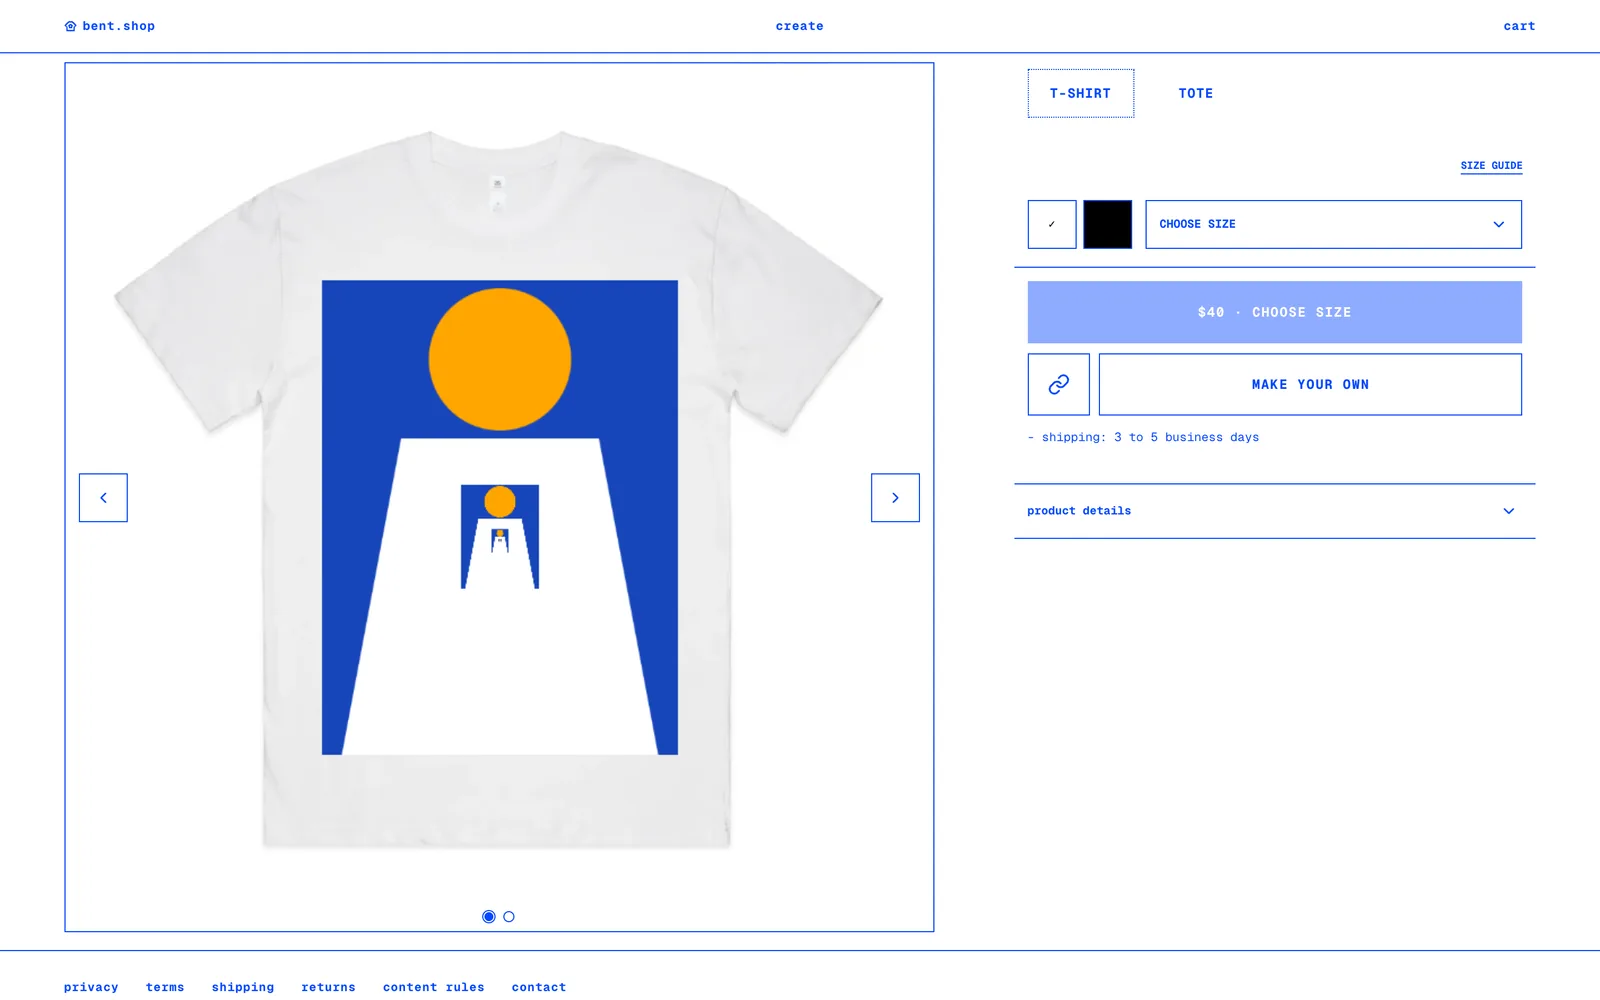
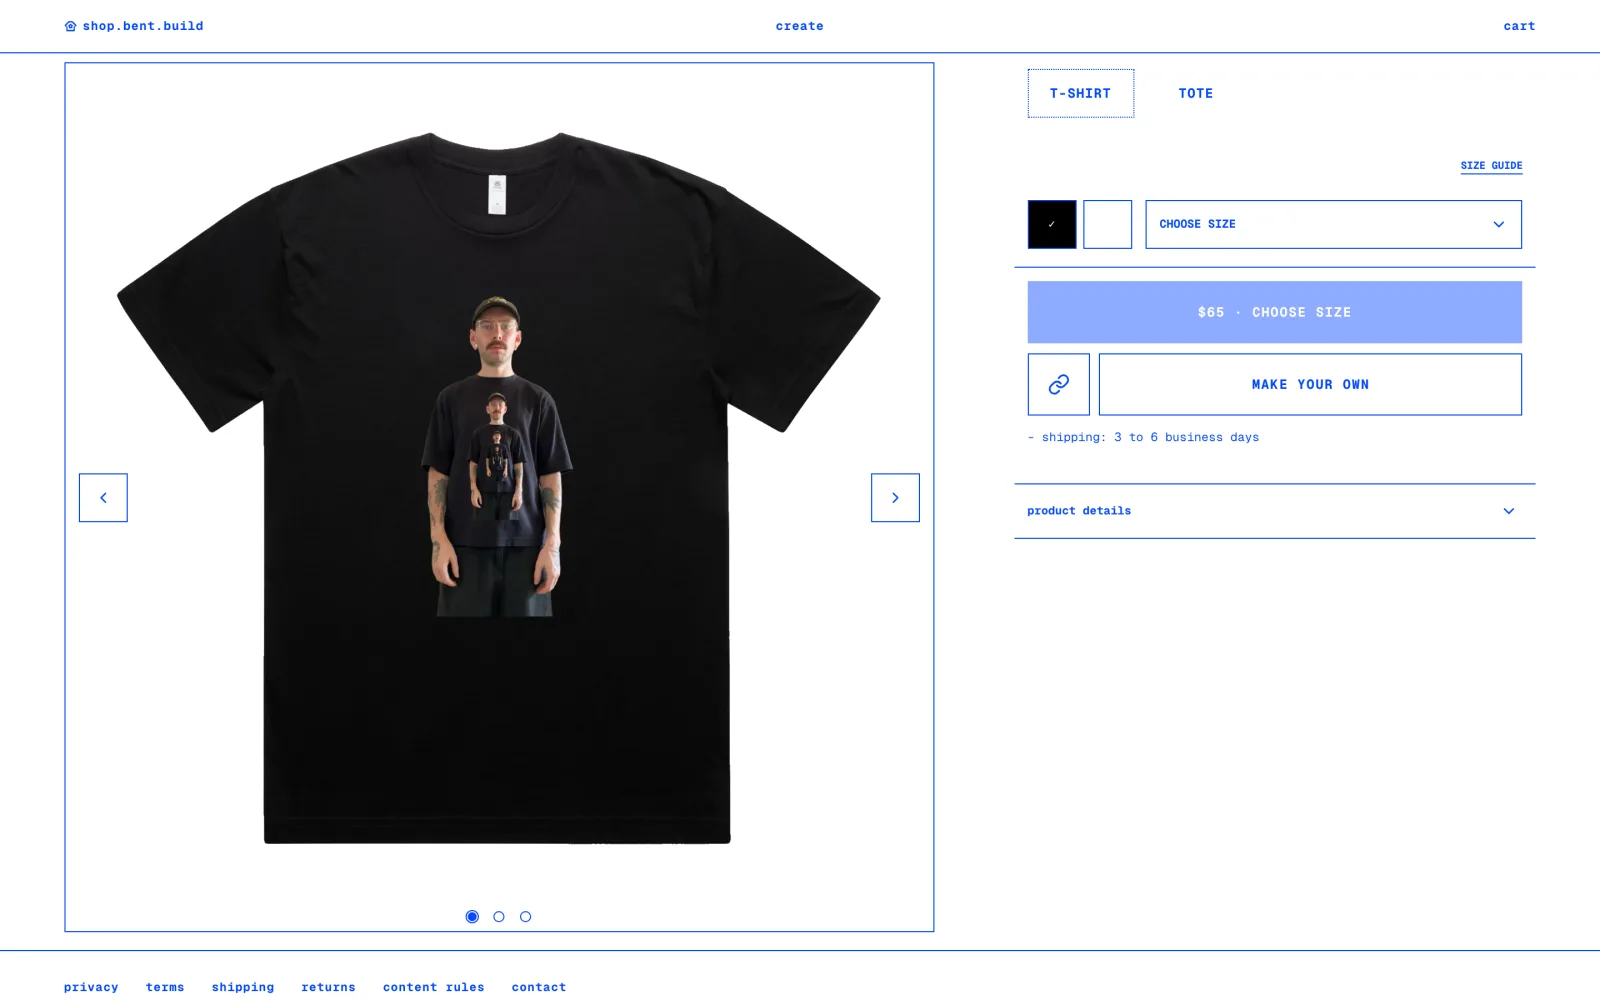
feat(www): feature a shop product, link app source and match phone status bars (#69)
Replace the shop screenshots with a featured product from the live shop.
Open app links in a new tab, add Source links for apps in this repository,
and colour each phone status bar to match its screenshot.

diff --git a/apps/www/lib/apps.ts b/apps/www/lib/apps.ts
@@ -31,6 +31,14 @@ export type AppId =
 
 type Screenshot = Readonly<{ image: StaticImageData; alt: string }>;
 
+type PhoneScreenshot = Screenshot &
+  Readonly<{
+    /** CSS background for the phone status bar, matching the screenshot's top edge. Defaults to white. */
+    statusBar?: string;
+  }>;
+
+const sourceRoot = "https://github.com/bentbrain/bent-mono/tree/main";
+
 export type ShowcaseApp = Readonly<{
   id: AppId;
   name: string;
@@ -40,8 +48,10 @@ export type ShowcaseApp = Readonly<{
   access: string;
   description: string;
   highlights: readonly string[];
+  /** Public source code location, for apps published in the bent-mono repository. */
+  source?: string;
   desktop: Screenshot;
-  mobile: Screenshot;
+  mobile: PhoneScreenshot;
 }>;
 
 export const apps: readonly ShowcaseApp[] = [
@@ -52,6 +62,7 @@ export const apps: readonly ShowcaseApp[] = [
     category: "Health & fitness",
     domain: "fitness.bent.build",
     access: "Invited accounts only",
+    source: `${sourceRoot}/apps/fitness`,
     description:
       "Plan a week of dumbbell strength sessions, runs and rest days. Log each set with a rest timer, and record daily calories, protein and bodyweight.",
     highlights: [
@@ -68,6 +79,7 @@ export const apps: readonly ShowcaseApp[] = [
     mobile: {
       image: fitnessMobile,
       alt: "Fitness week view on a phone with the seven-day schedule and today's Strength B workout.",
+      statusBar: "#f4f6f8",
     },
   },
   {
@@ -77,6 +89,7 @@ export const apps: readonly ShowcaseApp[] = [
     category: "Sports",
     domain: "trackmap.bent.build",
     access: "Open to everyone",
+    source: `${sourceRoot}/apps/trackmap`,
     description:
       "Open a GPX, TCX, FIT or GeoJSON file and Trackmap draws the route and its elevation in 3D. Export it as a video, image or GIF. Files stay in your browser.",
     highlights: [
@@ -111,11 +124,11 @@ export const apps: readonly ShowcaseApp[] = [
     ],
     desktop: {
       image: shopDesktop,
-      alt: "Shop product page on desktop with a white t-shirt printed with sample artwork, colour and size options.",
+      alt: "Shop product page on desktop with a black t-shirt printed with a photo of a person wearing the same shirt, colour and size options.",
     },
     mobile: {
       image: shopMobile,
-      alt: "Shop design editor on a phone with sample artwork, t-shirt and tote previews, and background and effect options.",
+      alt: "Shop product page on a phone with a black t-shirt printed with a photo of a person wearing the same shirt, colour and size options.",
     },
   },
   {
@@ -125,6 +138,7 @@ export const apps: readonly ShowcaseApp[] = [
     category: "Lifestyle",
     domain: "home.bent.build",
     access: "Open to everyone",
+    source: `${sourceRoot}/apps/home`,
     description:
       "An isometric 3D apartment with furniture, two cats and sunlight that follows the time of day. Turn the view in 90-degree steps and dim the lounge and bedroom lights. The lights are a simulation in your browser.",
     highlights: [
@@ -148,6 +162,7 @@ export const apps: readonly ShowcaseApp[] = [
     category: "Travel",
     domain: "jp.bent.build",
     access: "Open to everyone",
+    source: `${sourceRoot}/apps/jp`,
     description:
       "Posts with photos and videos, a gallery you can filter by category and a map of geotagged photos and videos in and around Japan. Subscribe by email to get new posts.",
     highlights: [
@@ -171,6 +186,7 @@ export const apps: readonly ShowcaseApp[] = [
     category: "Travel",
     domain: "stay.bent.build",
     access: "Invited guests only",
+    source: `${sourceRoot}/apps/stay`,
     description:
       "Guests sign in to search the house guide and ask questions, which an AI assistant answers from the guide and appliance manuals. The guide also has the Wi-Fi details and controls for the lights, TV and robot vacuum that work on the apartment Wi-Fi.",
     highlights: [
@@ -195,6 +211,7 @@ export const apps: readonly ShowcaseApp[] = [
     category: "Utilities",
     domain: "drive.bent.build",
     access: "Invited GitHub accounts, plus a Tesla account",
+    source: `${sourceRoot}/products/drive`,
     description:
       "An MCP server that lets ChatGPT read a Tesla's battery, range, charging, locks, climate and Sentry state. Sign in with an invited GitHub account, then approve read-only access with Tesla. The website has setup instructions.",
     highlights: [
@@ -210,6 +227,7 @@ export const apps: readonly ShowcaseApp[] = [
     mobile: {
       image: driveMobile,
       alt: "Drive website on a phone with the overview.",
+      statusBar: "linear-gradient(90deg, #1e0c0d, #280c0f 20%, #320d10 50%, #270b0e 80%, #200b0d)",
     },
   },
   {
@@ -219,6 +237,7 @@ export const apps: readonly ShowcaseApp[] = [
     category: "Developer tools",
     domain: "toolbar.bent.build",
     access: "Sign in with GitHub",
+    source: `${sourceRoot}/apps/toolbar`,
     description:
       "Add a script tag to a website. Project members can then pin comment threads to page elements, reply and react, and send work requests to a coding agent on their own computer. The agent posts its results back to the thread.",
     highlights: [
@@ -234,6 +253,7 @@ export const apps: readonly ShowcaseApp[] = [
     mobile: {
       image: toolbarMobile,
       alt: "Feedback toolbar on a phone over an example website, with a pinned heading and a comment thread.",
+      statusBar: "#f8f7f3",
     },
   },
   {
@@ -243,6 +263,7 @@ export const apps: readonly ShowcaseApp[] = [
     category: "Art",
     domain: "maya-collage.bent.build",
     access: "Public feed. Sign in to make collages.",
+    source: `${sourceRoot}/apps/collage`,
     description:
       "Browse the public feed, or sign in to make square collages in your browser from stickers and colour, gradient or image backgrounds. Keep collages private, publish them to the feed or download them.",
     highlights: [
@@ -257,6 +278,7 @@ export const apps: readonly ShowcaseApp[] = [
     mobile: {
       image: collageMobile,
       alt: "Maya's Collages feed on a phone with sample collages.",
+      statusBar: "#f5f5f5",
     },
   },
 ];

diff --git a/apps/www/components/showcase/app-section.tsx b/apps/www/components/showcase/app-section.tsx
@@ -28,13 +28,36 @@ export function AppSection({ app }: Readonly<{ app: ShowcaseApp }>) {
               {app.tagline}
             </p>
           </div>
-          <Button asChild size="lg" className="w-full font-mono sm:w-auto">
-            <a href={`https://${app.domain}/`}>
-              Open
-              <span className="sr-only"> {app.name}</span>
-              <span aria-hidden="true">↗</span>
-            </a>
-          </Button>
+          <div className="flex w-full gap-2 sm:w-auto">
+            {app.source ? (
+              <Button
+                asChild
+                size="lg"
+                variant="outline"
+                className="flex-1 font-mono sm:flex-none"
+              >
+                <a href={app.source} target="_blank" rel="noopener noreferrer">
+                  Source
+                  <span className="sr-only">
+                    {" "}
+                    code for {app.name} (opens in a new tab)
+                  </span>
+                  <span aria-hidden="true">↗</span>
+                </a>
+              </Button>
+            ) : null}
+            <Button asChild size="lg" className="flex-1 font-mono sm:flex-none">
+              <a
+                href={`https://${app.domain}/`}
+                target="_blank"
+                rel="noopener noreferrer"
+              >
+                Open
+                <span className="sr-only"> {app.name} (opens in a new tab)</span>
+                <span aria-hidden="true">↗</span>
+              </a>
+            </Button>
+          </div>
         </header>
       </div>
 
@@ -53,6 +76,7 @@ export function AppSection({ app }: Readonly<{ app: ShowcaseApp }>) {
           className="order-first md:order-none"
           image={app.mobile.image}
           alt={app.mobile.alt}
+          statusBar={app.mobile.statusBar}
         />
       </div>
 

diff --git a/apps/www/components/showcase/device-frames.tsx b/apps/www/components/showcase/device-frames.tsx
@@ -39,8 +39,10 @@ export function PhoneFrame({
   image,
   alt,
   className,
+  statusBar = "#ffffff",
   sizes = "(min-width: 768px) 15rem, 52vw",
-}: FrameProps & Readonly<{ className?: string; sizes?: string }>) {
+}: FrameProps &
+  Readonly<{ className?: string; statusBar?: string; sizes?: string }>) {
   return (
     <figure
       className={cn(
@@ -52,6 +54,7 @@ export function PhoneFrame({
         <div
           aria-hidden="true"
           className="flex h-7 items-center justify-center"
+          style={{ background: statusBar }}
         >
           <span className="h-4 w-16 rounded-full bg-neutral-950" />
         </div>

diff --git a/apps/www/app/page.tsx b/apps/www/app/page.tsx
@@ -35,6 +35,7 @@ function HeroPhones() {
           key={app.id}
           image={app.mobile.image}
           alt=""
+          statusBar={app.mobile.statusBar}
           sizes={heroImageSizes}
           className={
             [

diff --git a/apps/www/README.md b/apps/www/README.md
@@ -9,13 +9,13 @@ bun install --frozen-lockfile
 bun run --cwd apps/www dev
 ```
 
-The development site opens at `http://localhost:3000`. The homepage lists every app on the bent.build subdomains. `lib/apps.ts` holds each app's name, domain, description and screenshots, and `components/showcase` renders the app sections. Fonts are bundled locally with `next/font/local`; shared design tokens come from `@bent/design-tokens`.
+The development site opens at `http://localhost:3000`. The homepage lists every app on the bent.build subdomains. `lib/apps.ts` holds each app's name, domain, description, screenshots and, for apps in this repository, a `source` link to their GitHub folder, and `components/showcase` renders the app sections. Fonts are bundled locally with `next/font/local`; shared design tokens come from `@bent/design-tokens`.
 
 ## Screenshots
 
-Each app has a desktop and a mobile screenshot in `assets/screenshots`, named `<app>-desktop.webp` and `<app>-mobile.webp`. Capture desktop at 1440 × 900 and mobile at 390 × 844, both at 2× scale (light theme where the app has one), then save them as WebP at 1600 × 1000 and 780 × 1688.
+Each app has a desktop and a mobile screenshot in `assets/screenshots`, named `<app>-desktop.webp` and `<app>-mobile.webp`. Capture desktop at 1440 × 900 and mobile at 390 × 844, both at 2× scale (light theme where the app has one), then save them as WebP at 1600 × 1000 and 780 × 1688. When a mobile screenshot's top edge is not white, set the app's `mobile.statusBar` in `lib/apps.ts` to that colour so the phone status bar matches.
 
-This repository is public. Capture public pages or local runs with synthetic data. Screenshots must not show real people, account details, locations, vehicle data or private guide content.
+This repository is public. Capture public pages or local runs with synthetic data. Screenshots may show only people who have agreed to appear, and must not show account details, locations, vehicle data or private guide content.
 
 Run the application checks from the repository root:
 
